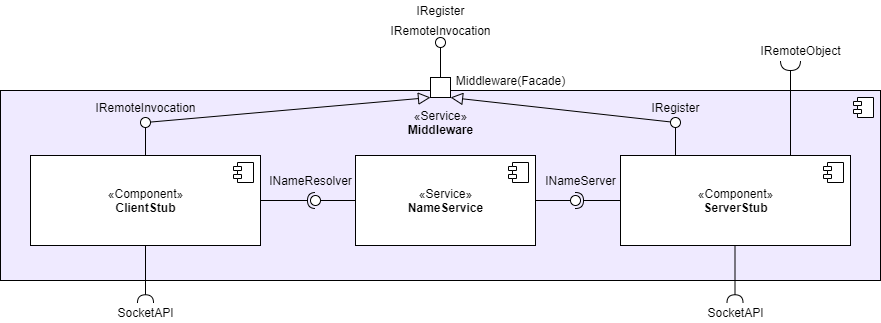
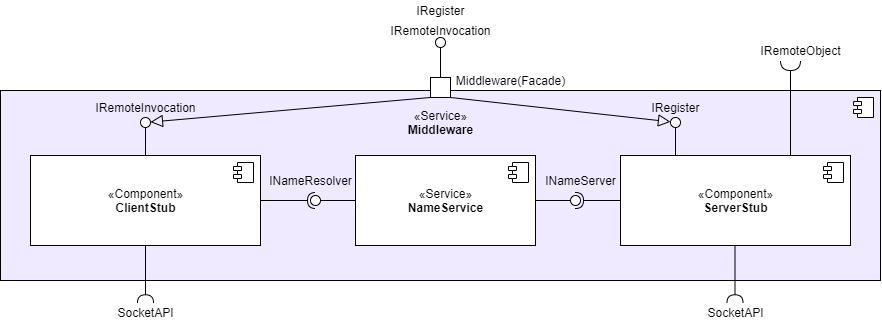
added lookup as UC; switched arrow direction for facade in BST; added returns as event in AD

diff --git a/Doku/Dokumentation_Middleware.md b/Doku/Dokumentation_Middleware.md
@@ -59,10 +59,11 @@ contributors. Siehe <https://arc42.org>.
 | UC3.1 send ||||||
 | UC4 Unmarshaling Message | Die Middleware hat eine Nachricht empfangen| **1.** Der Unmarshaler wandelt die Nachricht in einen Methodenaufruf um <br> **2.** Der Unmarshaler ruft den Application-Stub der Komponente auf, die den Methodenaufruf empfangen soll (siehe UC5)| Ein Methodenaufruf wurde erzeugt| | |
 | UC4.1 receive ||||||
-| UC5 Call Method | UC 4 : Der Unmarshaler hat eine Nachricht in einen Methodenauf umgewandelt |**1.** Der Unmarshaler ruft die Call-Schnittstelle des Application-Callee-Stubs <br> **2.** Der Application-Callee-Stub ruft die dazugehörige Komponente lokal auf. | Die aufgerufene Methode wird ausgeführt.|
+| UC5 lookup | invoke wurde mit einer ID für eine Funktion aufgerufen | Der Nameserver wird angefragt, ob er einen Eintrag mit der übergebenen ID hat und liefert die zugehörige IP-Adresse + Port zurück | IP-Adresse + Port zu der gesuchten Funktion wurden zurückgegeben | Es gibt keinen Eintrag mit dieser ID. Dann wird  null zurückgegeben und der Aufruf verworfen. ||
+| UC6 Call Method | UC 4 : Der Unmarshaler hat eine Nachricht in einen Methodenauf umgewandelt |**1.** Der Unmarshaler ruft die Call-Schnittstelle des Application-Callee-Stubs <br> **2.** Der Application-Callee-Stub ruft die dazugehörige Komponente lokal auf. | Die aufgerufene Methode wird ausgeführt.|
 
 
-## Technischer Kontext 
+## Technischer Kontext
 
 ![Technischer_Trontext](./images/middleware_technischer_trontext.png)
 
@@ -74,18 +75,17 @@ contributors. Siehe <https://arc42.org>.
 |---|---|---|---|---|---|---|
 |UC1| ServerStub | void register(int, InetAddress) | Ein CalleeStub aus dem ApplicationStub möchte sich als RemoteObject registrieren | Das RemoteObject wurde im NameServer gespeichert |  NameServer wird aufgerufen und id mit InetAddress eingetragen | Eintrag mit der ID existiert bereits. Dann wird überschrieben(?) |
 |UC2| ClientStub | void invoke(int, String, Object[]) | Eine Komponente ruft eine Remote-Komponente über eine Application Stub Schnittstelle auf | Der Aufruf wurde geprüft und die Methode marshal() wurde aufgerufen |  Prüft mithilfe von lookup() ob die übergebene Objekt-ID (erster Parameter) registriert ist. Dann wird die Methode marshal() aufgerufen | Wenn die Objekt-ID nicht registriert ist, wird eine Exception geworfen|
-|UC2| ClientStub | INetAddress lookup(int) | invoke wurde aufgerufen |  | Aufrufparameter: ID, liefert die Inet-Adresse und die Portnummer zum Eintrag mit ID im NameServer | Es gibt keinen Eintrag mit der ID. Es wird null zurückgegeben und der RPC abgebrochen |
 |UC3| ClientStub | Message marshal(String, Object[]) | Funktionsaufruf über invoke wurde getätigt, zugehörige InetAddress wurde durch NameResolver ermittelt | Funktionsaufruf wurde marshaled und zurückgegeben | | |
 |UC3.1| ClientStub | void send(Message, InetAddress) | Funktionsaufruf wurde marshaled, zugehörige InetAddress druch NameResolver ermittelt | Nachricht wurde verschickt | Die marshaled Nachricht wird über einen Socket an die passende InetAddress verschickt. | |
 |UC4| ServerStub | void unmarshal(Message) | Nachricht wurde über receive empfangen | Nachrichteninhalt wurde extrahiert und kann für call genutzt werden | | (checksum stimmt nicht überein -> ignorieren) |
 |UC4.1| ServerStub | receive() | Ein Socket im Server Stub befindet sich im Lauschzustand | Nachricht wurde empfangen | Nachricht am Socket wird empfangen und gespeichert. | |
-|UC5| ServerStub | void call(InetAddress, Object[]) | Nachricht wurde vom ServerStub empfangen und unmarshaled | RemoteObject mit der zugehörigen InetAddress wurde informiert | | |
+|UC5| ClientStub | INetAddress lookup(int) | invoke wurde aufgerufen |  | Aufrufparameter: ID, liefert die Inet-Adresse und die Portnummer zum Eintrag mit ID im NameServer | Es gibt keinen Eintrag mit der ID. Es wird null zurückgegeben und der RPC abgebrochen |
+|UC6| ServerStub | void call(InetAddress, Object[]) | Nachricht wurde vom ServerStub empfangen und unmarshaled | RemoteObject mit der zugehörigen InetAddress wurde informiert | | |
 
 
 # Bausteinsicht 
 
-## Whitebox Gesamtsystem 
-
+## Whitebox Gesamtsystem
 
 ![Middleware_Ebene1](./images/Middleware_Ebene1.png)
 
